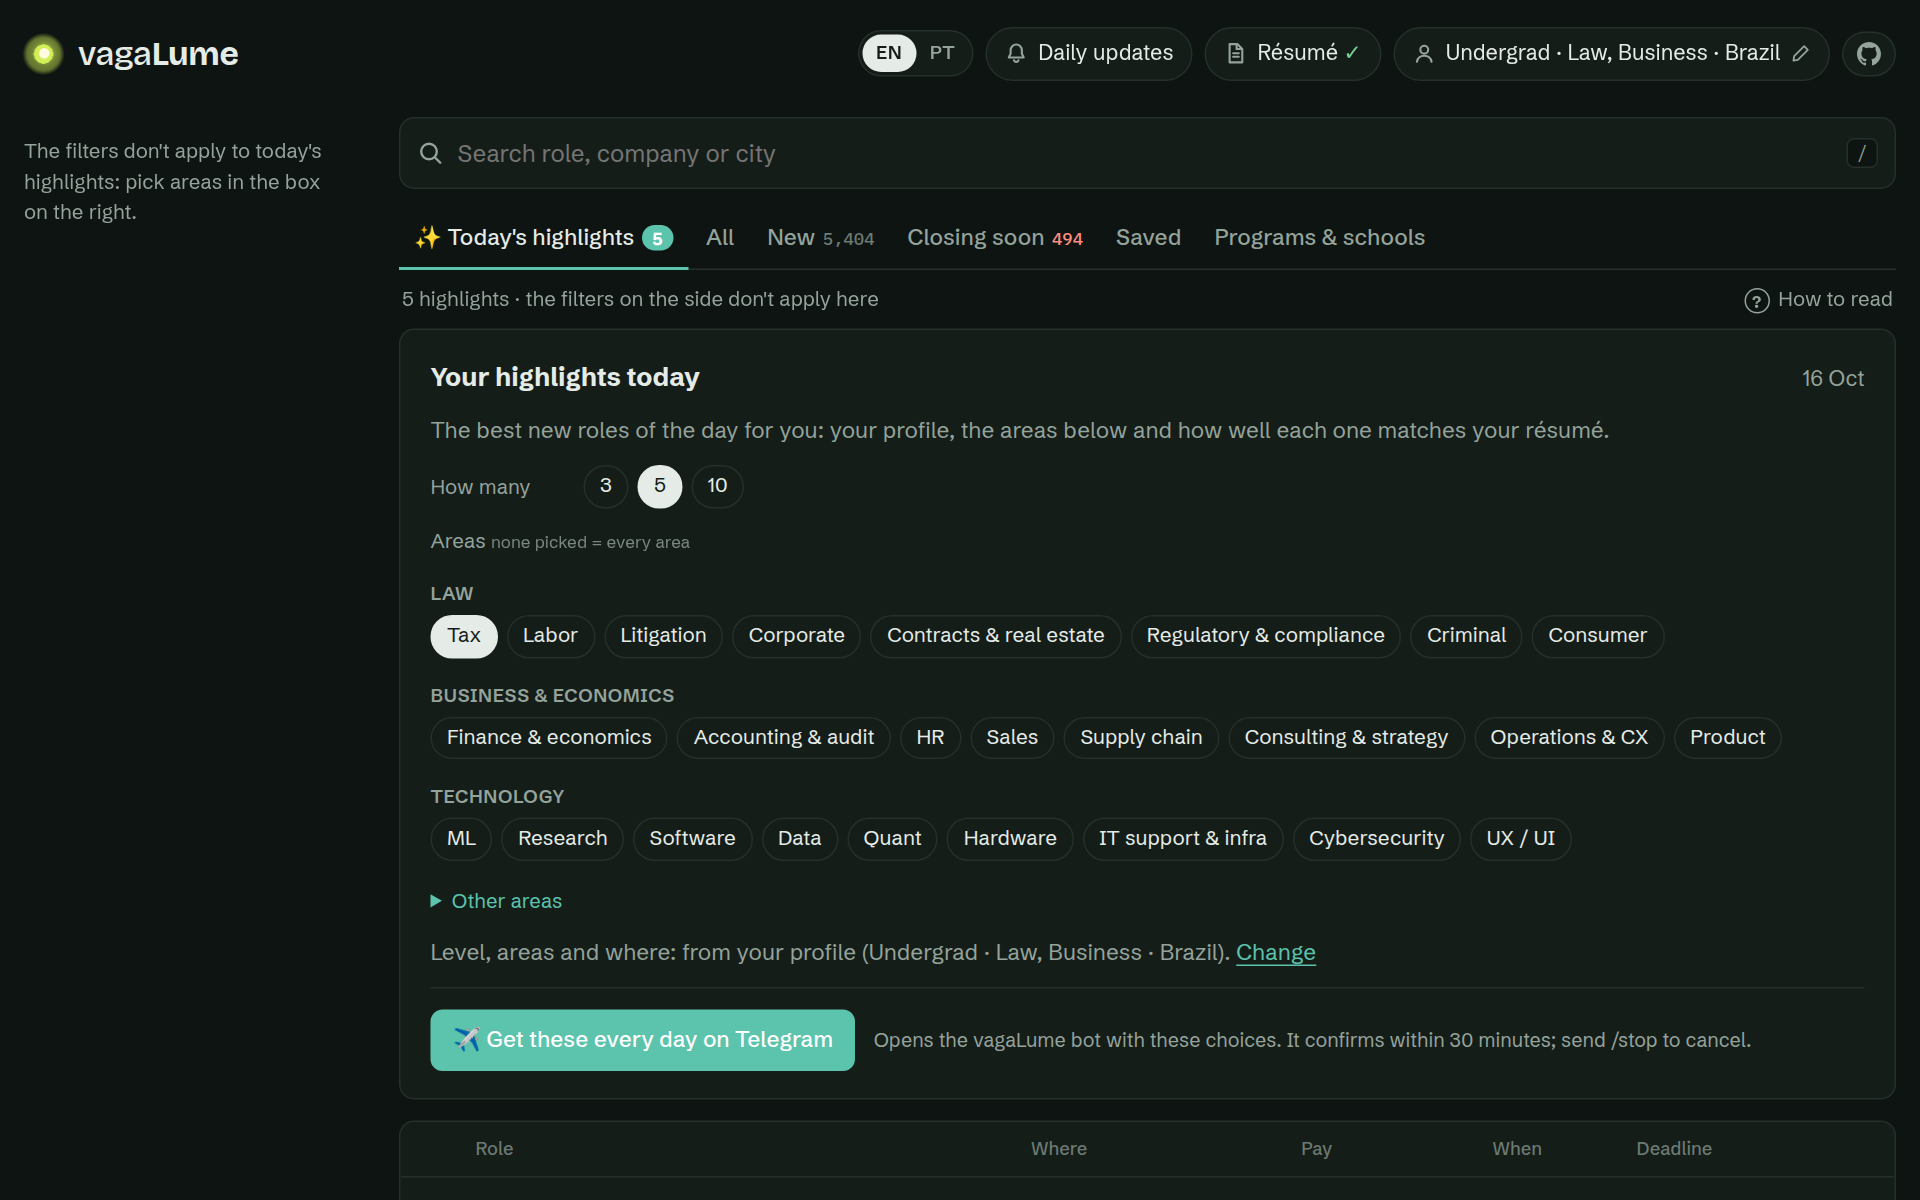
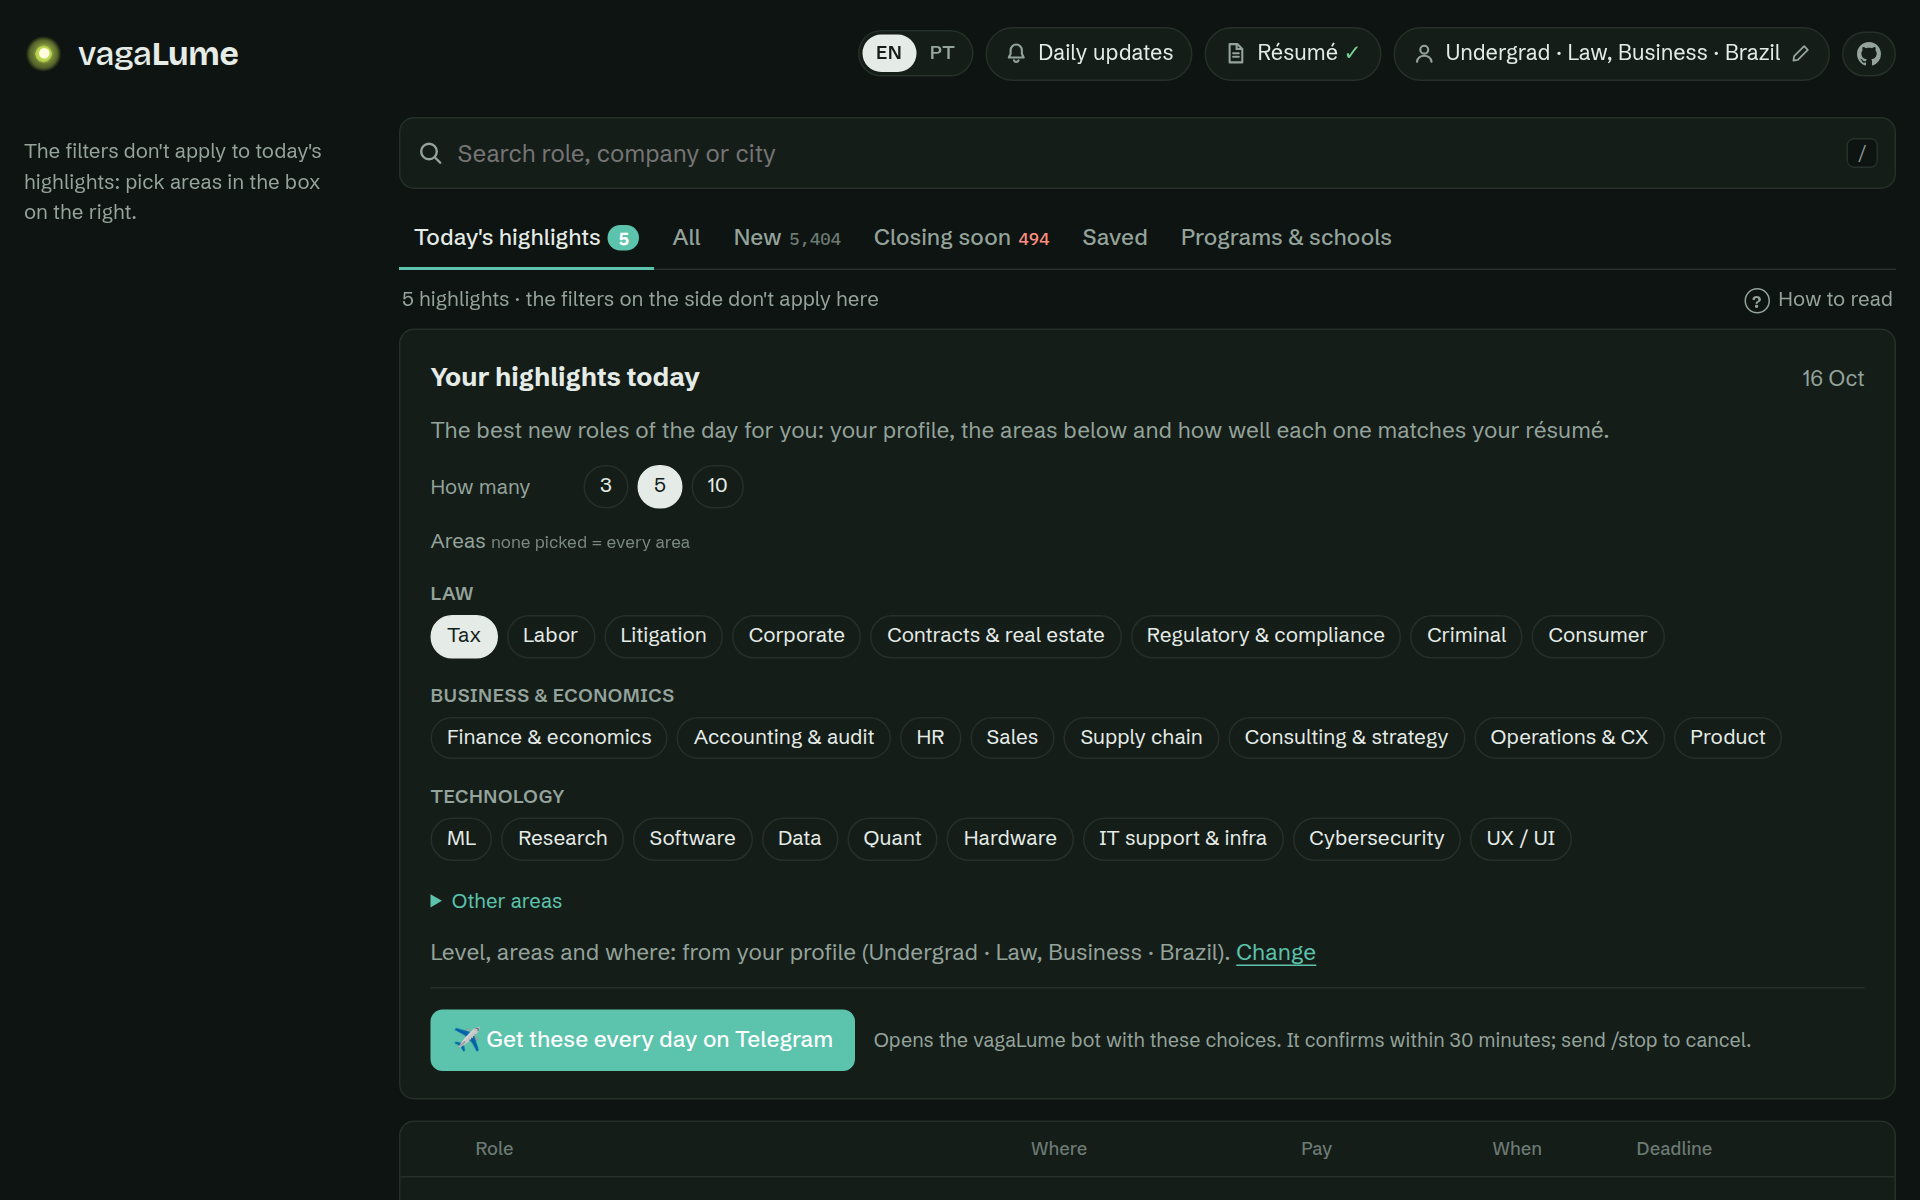
No emoji on highlights; quieter nudge

Changed region(s): [[0.2188, 0.185, 0.75, 0.2158], [0.0, 0.0308, 0.0312, 0.0617]]

diff --git a/docs/index.html b/docs/index.html
@@ -223,10 +223,10 @@
   .tab small.hot { color: var(--long); }
   .tab-picks { color: var(--accent); }
   .tab small.pick { background: var(--accent); color: #fff; border-radius: 999px; padding: 1px 7px; font-weight: 600; }
-  .picks-nudge { display: flex; align-items: center; gap: 12px; flex-wrap: wrap; border: 1px solid var(--accent); border-radius: var(--radius);
-    background: var(--surface); padding: 10px 14px; margin: 0 0 12px; }
-  .picks-nudge span { flex: 1; min-width: 180px; font-weight: 500; }
-  .picks-nudge .btn { background: var(--accent); color: #fff; border-color: var(--accent); }
+  .picks-nudge { display: flex; align-items: baseline; gap: 14px; flex-wrap: wrap; border-left: 3px solid var(--accent);
+    padding: 6px 8px 6px 12px; margin: 0 0 12px; font-size: .92rem; }
+  .picks-nudge span { flex: 1; min-width: 180px; }
+  .picks-nudge .linkish { font-weight: 600; }
   .picks-nudge .x { background: none; border: 0; font-size: 1.2rem; line-height: 1; cursor: pointer; color: var(--muted); padding: 4px; }
   .tab[aria-selected="true"] { color: var(--ink); border-bottom-color: var(--accent); }
   .sort { display: flex; align-items: center; gap: 2px; font-size: .88rem; color: var(--muted); padding-bottom: 5px; }
@@ -1949,7 +1949,7 @@ function render() {
   const picksN = pickToday(DATA.items, myPrefs(), DATA.updated).length;
   $("tabs").innerHTML = TABS.map(([key, test, count, optional]) => {
     if (key === "picks") {
-      return `<button class="tab tab-picks" role="tab" data-tab="picks" aria-selected="${view.tab === "picks"}">✨ ${t("tab.picks")}${picksN ? `<small class="pick">${picksN}</small>` : ""}</button>`;
+      return `<button class="tab tab-picks" role="tab" data-tab="picks" aria-selected="${view.tab === "picks"}">${t("tab.picks")}${picksN ? `<small class="pick">${picksN}</small>` : ""}</button>`;
     }
     const n = count ? filtered.filter(test).length : 0;
     if (optional && !n && view.tab !== key) return "";
@@ -1961,8 +1961,8 @@ function render() {
   // On the main tabs, a one-line nudge towards today's highlights (until closed for the day).
   const nudge = !picksMode && ["all", "new"].includes(view.tab) && picksN && store.get("radar.picksNudge", "") !== DATA.updated;
   $("picks-nudge").hidden = !nudge;
-  if (nudge) $("picks-nudge").innerHTML = `<span>✨ ${esc(t("picks.nudge", picksN))}</span>
-    <button class="btn" data-go-picks="1">${esc(t("picks.nudgeGo"))}</button><button class="x" id="picks-nudge-x" aria-label="${esc(t("close"))}">×</button>`;
+  if (nudge) $("picks-nudge").innerHTML = `<span>${esc(t("picks.nudge", picksN))}</span>
+    <button class="linkish" data-go-picks="1">${esc(t("picks.nudgeGo"))}</button><button class="x" id="picks-nudge-x" aria-label="${esc(t("close"))}">×</button>`;
   $("filterbar").hidden = picksMode;
   $("filters-note").hidden = !picksMode;
   if (picksMode) $("filters-summary").textContent = t("filters");

diff --git a/.github/README.en.md b/.github/README.en.md
@@ -47,7 +47,7 @@ little light that finds the openings for you.
 | 🎯 **Your areas, in the right order** | Tell it which areas you're looking for (not only your course: an engineering student can pick Business too), whether you're doing a Bachelor's, Master's or PhD, where you study and where you'd work (pick as many as apply: *Engineering* and *Computing*, *my state* and *Europe*). Roles for other fields, other levels (PhD-only for an undergrad, and the other way round) and other places are hidden (one click shows them; remote roles always show), and every role gets a dot (good fit, check something, long shot) with the reason, like *"needs US work authorization"* or *"aimed at PhD students"*. |
 | 📄 **Match your résumé** | Paste a ready-made prompt and your résumé into the AI chat you already use (ChatGPT, Gemini, Claude…), paste its answer back, and every role shows how well it matches: *"you have 6 of the 10 skills it mentions"*. No AI runs inside vagaLume and your résumé never leaves your hands. |
 | 💸 **Pay, when it's stated** | `$54–60/hr`, `R$1,357/mo`, `€1,800/mo`: read from job boards and descriptions in English and Portuguese. |
-| ✨ **Today's highlights** | With your résumé, the *Today's highlights* tab shows the 3, 5 or 10 best new roles of the day for you, and the vagaLume bot can send them to you every day on Telegram. |
+| ✨ **Today's highlights** | The *Today's highlights* tab shows the 3, 5 or 10 best new roles of the day for you (with your résumé, by what you know), and the vagaLume bot can send them to you every day on Telegram. |
 | 📅 **Fits your calendar?** | A tiny January–December strip on every role shows whether it falls in your breaks or clashes with your semester. |
 | ⏰ **Deadlines up front** | Closing-soon roles and brand-new ones each get their own tab. |
 | ☆ **Your shortlist** | Save, mark as applied, or hide. Filters add up (*ML* and *Data*, *Brazil* and *Remote*) and live in the link, so you can bookmark *"ML roles in Europe"* or send it to a friend. |

diff --git a/README.md b/README.md
@@ -46,7 +46,7 @@ no GitHub, a Gupy e o site de cada escola de verão, toda semana. Um *vagalume*
 | 🎯 **Só o que é da sua área, na ordem certa** | Diga em quais áreas você procura vagas (não só o seu curso), se está na graduação, no mestrado ou no doutorado, onde estuda e onde toparia trabalhar (pode marcar mais de uma). Vagas de outras áreas, de outros níveis (doutorado para quem está na graduação, e vice-versa) e de fora dos lugares que você escolheu ficam escondidas, e cada vaga ganha um ponto (boa, verificar algo, improvável) com o motivo, como *"exige autorização de trabalho nos EUA"* ou *"voltada a doutorandos"*. |
 | 📄 **Compare com o seu currículo** | Cole um prompt pronto e o seu currículo na IA que você já usa (ChatGPT, Gemini, Claude…), traga a resposta de volta, e cada vaga mostra o quanto combina. |
 | 💸 **Remuneração, quando informada** | `$54–60/hr`, `R$1,357/mo`, `€1,800/mo`: lida das plataformas de vagas e das descrições, em inglês e em português. |
-| ✨ **Destaques do dia** | Com o seu currículo, a aba *Destaques de hoje* mostra as 3, 5 ou 10 melhores vagas novas do dia para você, e o bot do vagaLume pode mandá-las todo dia no Telegram. |
+| ✨ **Destaques do dia** | A aba *Destaques de hoje* mostra as 3, 5 ou 10 melhores vagas novas do dia para você (com o seu currículo, pelo que você sabe), e o bot do vagaLume pode mandá-las todo dia no Telegram. |
 | 📅 **Cabe no seu calendário?** | Uma tirinha de janeiro a dezembro em cada vaga mostra se ela cai nas suas férias ou bate com o semestre. |
 | ⏰ **Prazos em destaque** | Vagas que fecham logo e vagas novas têm abas próprias. |
 | ☆ **A sua lista** | Salve, marque como candidatado ou esconda. Os filtros se somam (*ML* e *Dados*, *Brasil* e *Remoto*) e ficam no link, então dá para guardar *"vagas de ML na Europa"* ou mandar para um amigo. |
